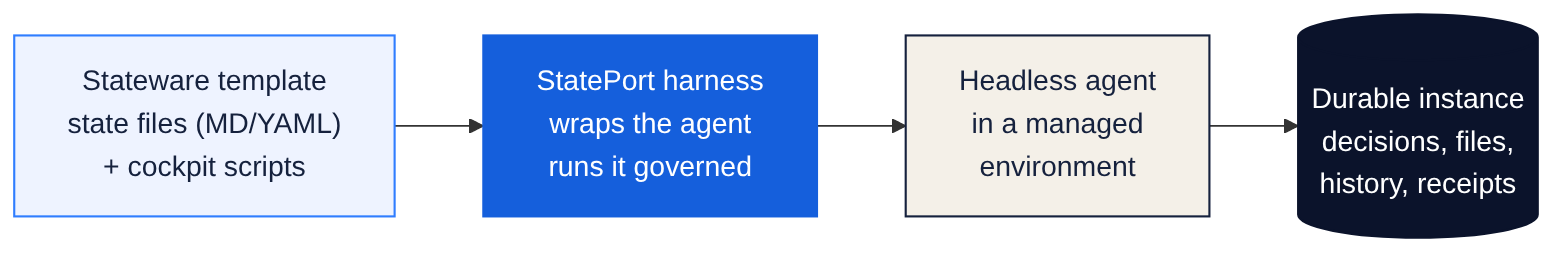
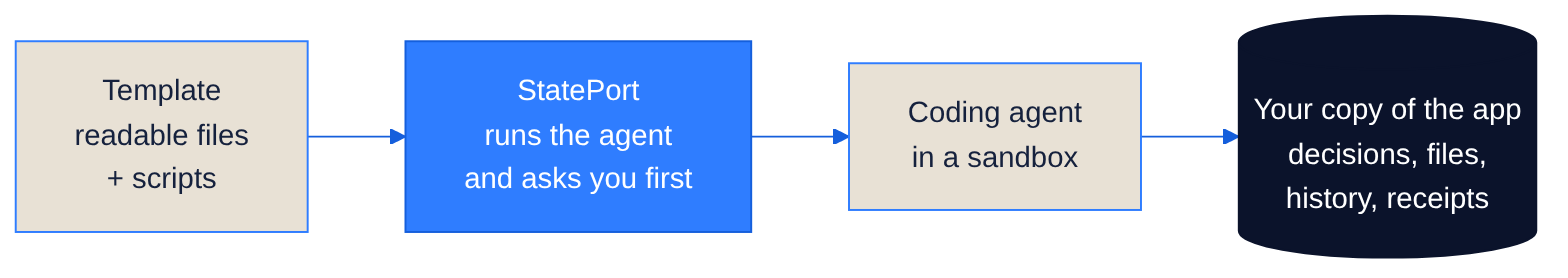
images: diagrams and social card without jargon; the harness diagram no longer says Codex is the qualified provider
The two diagrams are re-rendered from their Mermaid sources. The social card
subtitle no longer says 'durable home'. Alt text and captions match.

diff --git a/docs/foundations.html b/docs/foundations.html
@@ -103,8 +103,8 @@
           <h2 id="where-the-ai-tool-fits">Where the AI tool fits</h2>
           <p>An AI tool can plan work, explain a choice and prepare a change. The plan is that StatePort decides what the tool may access, asks you before important actions and saves the result in the app. Today that full path is built for actions that follow a fixed script, such as the StudyState sample. Output from coding agents is recorded as a run result. StatePort does not turn it into saved app state.</p>
           <figure class="diagram-figure reveal">
-            <img src="../assets/diagrams/stateport-diagram-harness.png" alt="Diagram: coding-agent tools feed a run request into StatePort. In the plan, StatePort plans the work, asks for approval, runs the agent with no screen, and checks the result before it is written into your app's saved state. See the text for what works today.">
-            <figcaption>The AI tool does the work. StatePort keeps the app and its history.</figcaption>
+            <img src="../assets/diagrams/stateport-diagram-harness.png" alt="Diagram: a run request and a coding agent go into StatePort. The agent is OpenCode, which ships with Alpha.20 and is the default, or Codex, which is not bundled. In the plan, StatePort plans the work, asks you, runs the agent and checks the result before it goes into your copy of the app. See the text for what works today.">
+            <figcaption>The plan: the AI tool does the work, and StatePort keeps the app and its history.</figcaption>
           </figure>
 
           <h2 id="what-this-gives-you">What I want it to give you</h2>

diff --git a/index.html b/index.html
@@ -239,7 +239,7 @@
             </article>
           </div>
           <figure class="diagram-figure reveal">
-            <img src="assets/diagrams/stateport-diagram-template.png" alt="Design diagram: a template of state files and scripts goes through StatePort, which runs a coding agent in a managed environment and writes the results into your own copy of the app." width="1568" height="256" loading="lazy" decoding="async">
+            <img src="assets/diagrams/stateport-diagram-template.png" alt="Design diagram: a template of readable files and scripts goes through StatePort, which runs a coding agent in a sandbox and asks you first. The result goes into your own copy of the app." width="1568" height="278" loading="lazy" decoding="async">
             <figcaption>The plan: a template becomes your own copy of an app. The agent does the work, StatePort checks it and asks you first, and your copy keeps the result. Today that works for fixed-script actions such as the study sample. Output from coding agents is recorded as a run result and is not yet saved into your app's state.</figcaption>
           </figure>
         </div>
